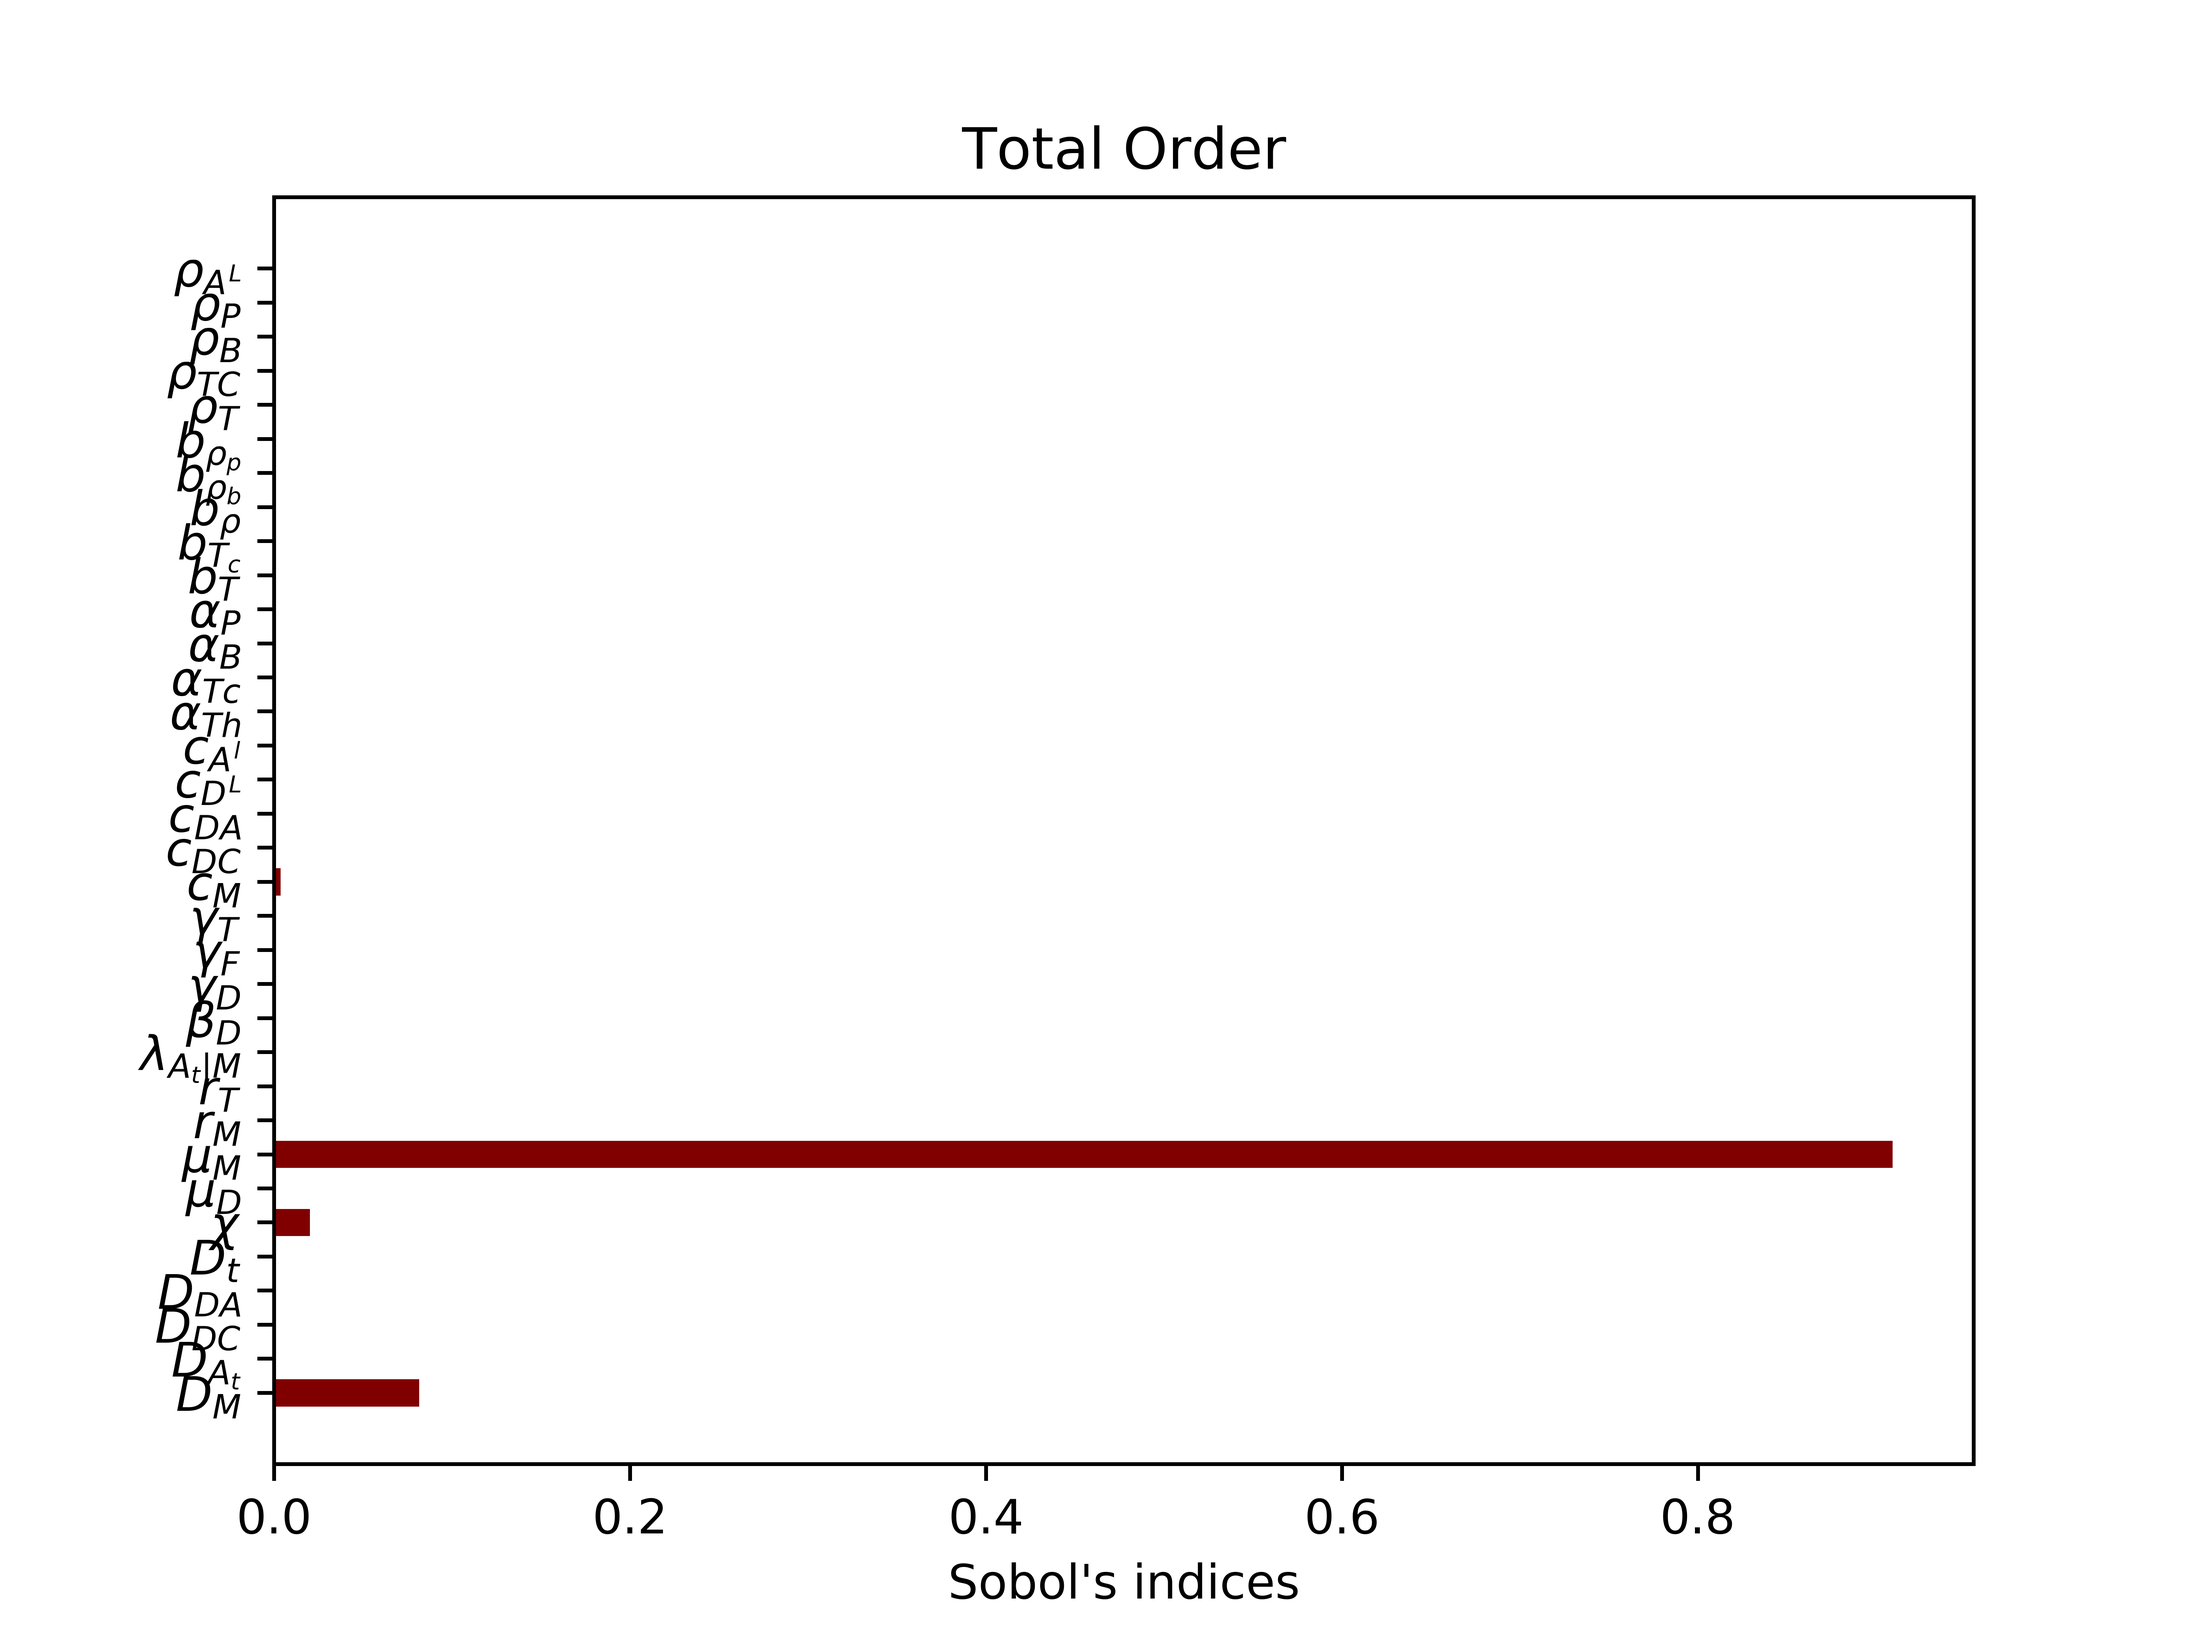
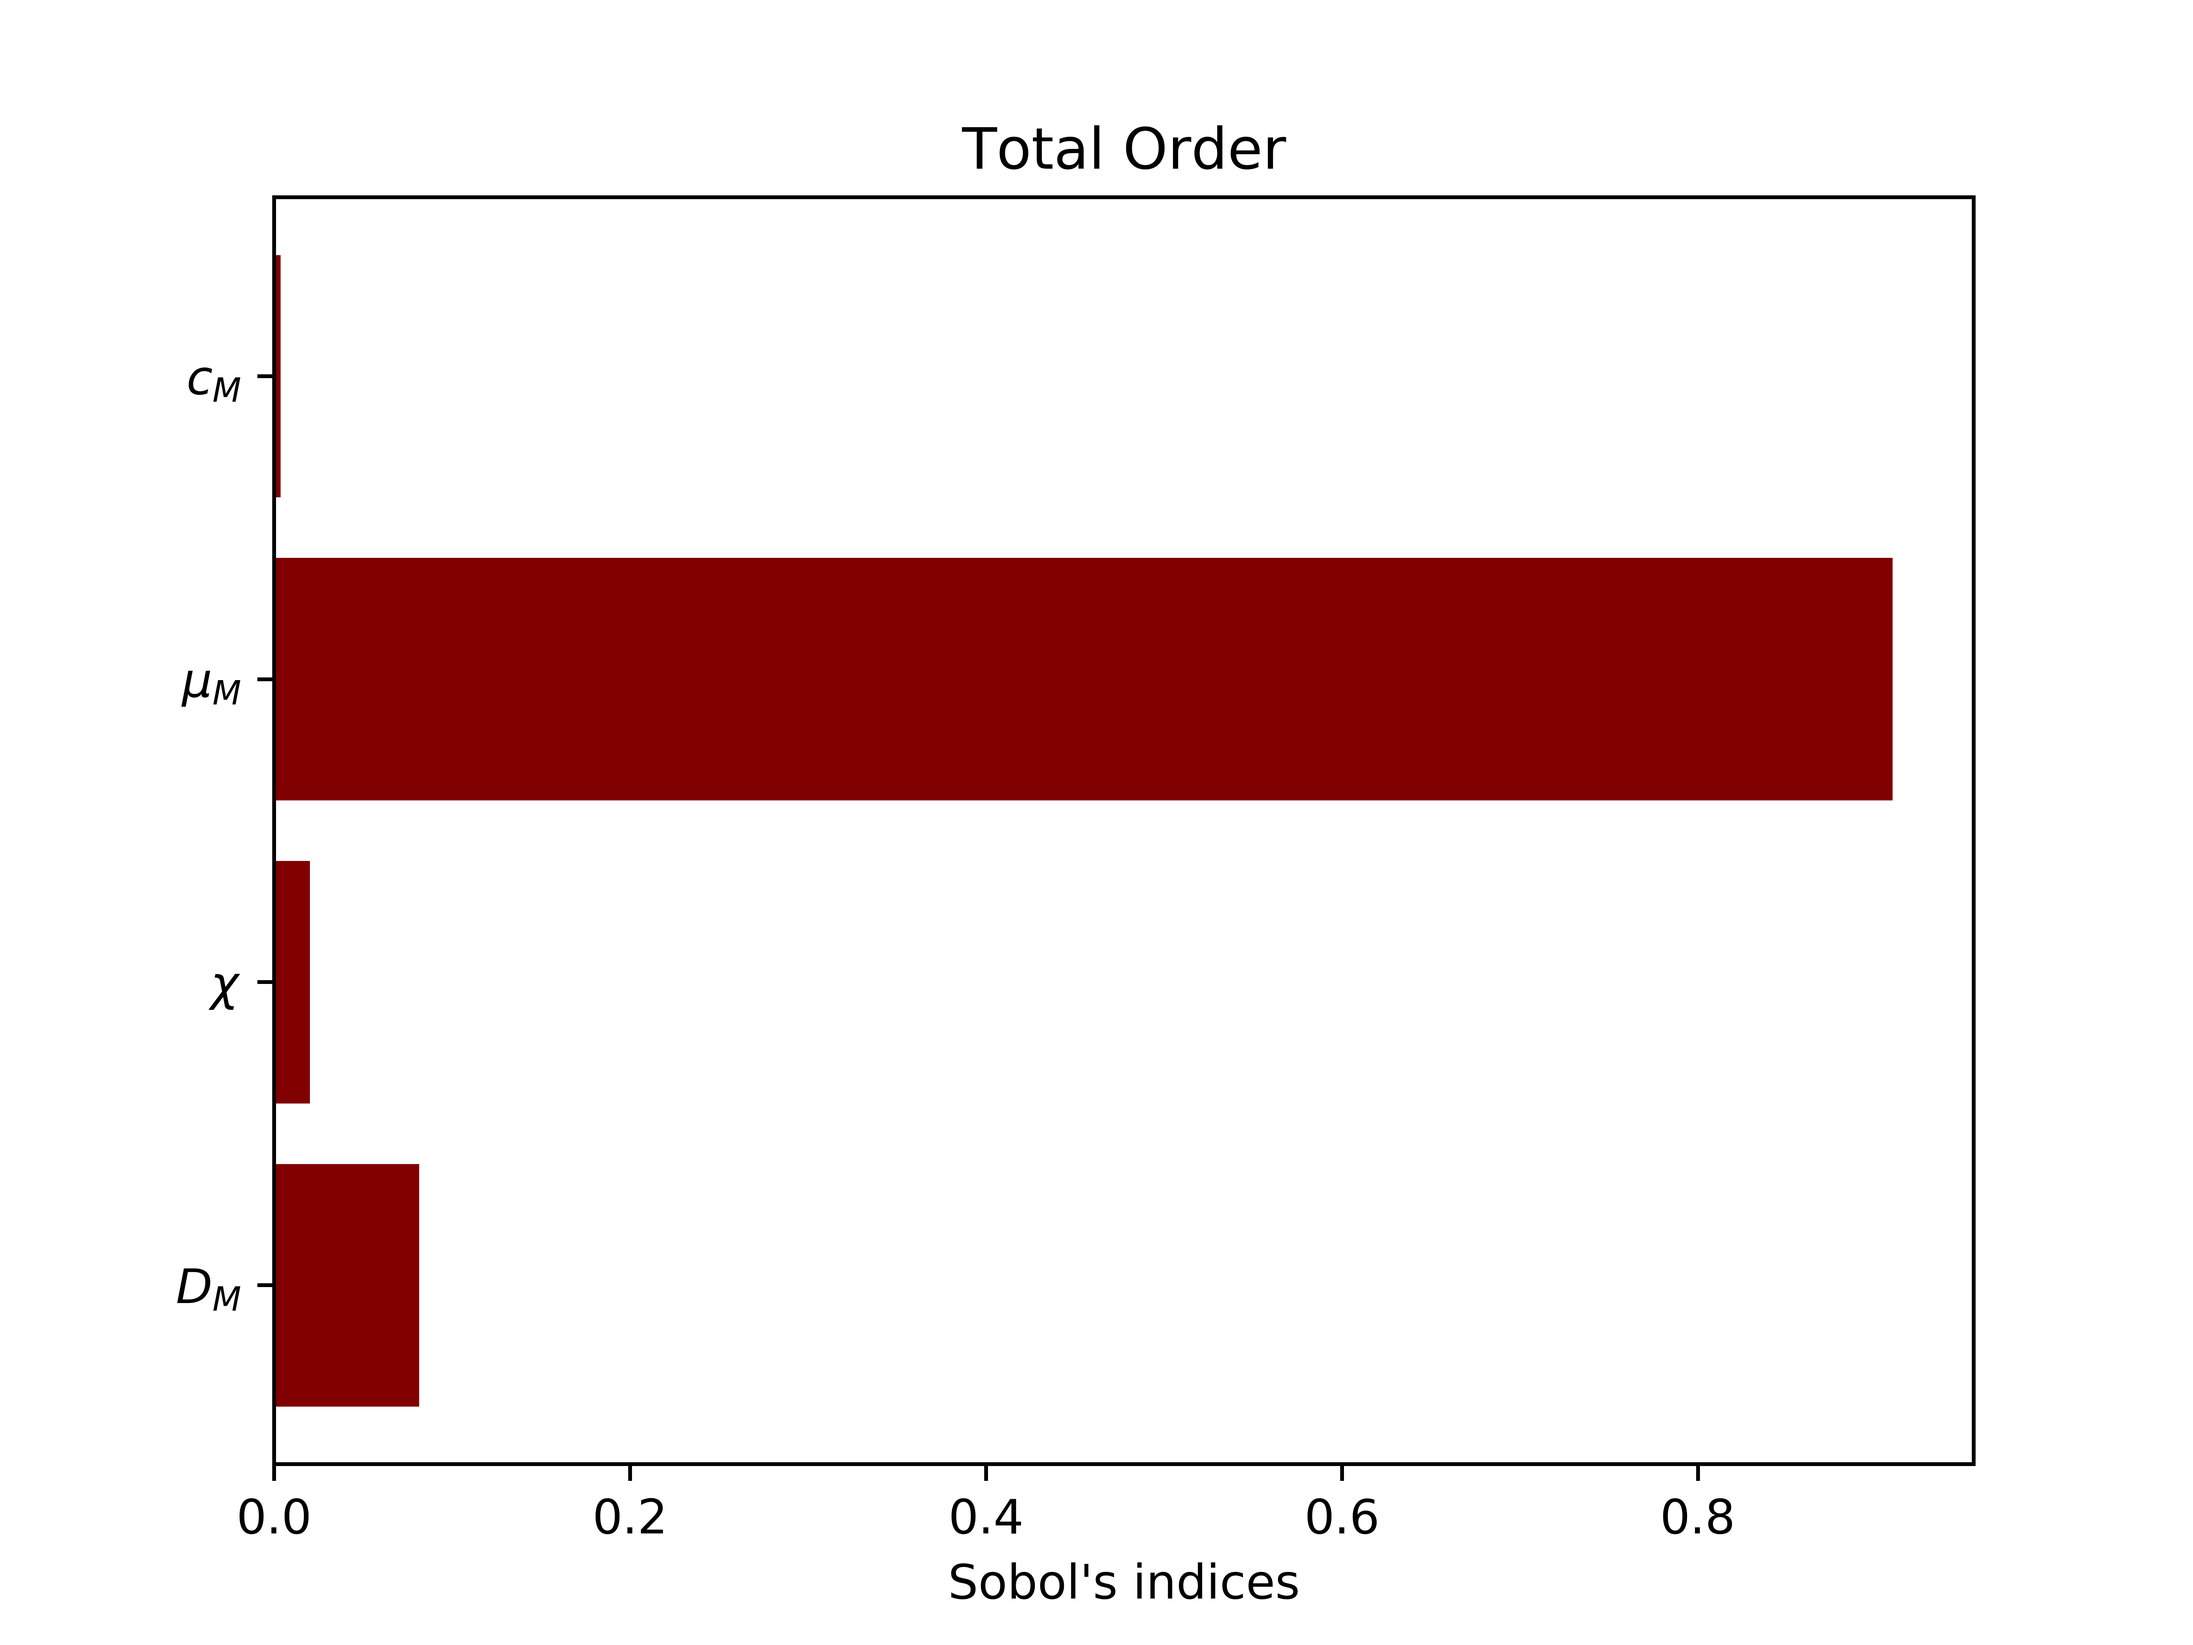
saving only microglia's parameters in firstorder

Changed region(s): [[0.0625, 0.1562, 0.875, 0.875]]

diff --git a/sensitivity_analysis/sa.py b/sensitivity_analysis/sa.py
@@ -9,12 +9,12 @@ import pandas as pd
 import seaborn as sns
 
 label = ["$D_{M}$", "$D_{A_t}$", "$D_{DC}$", "$D_{DA}$", "$D_{t}$", "$\chi$", "$\mu_{D}$", "$\mu_M$", "$r_M$", "$r_T$", "$\lambda_{A_t|M}$", "$\\beta_D$", "$\gamma_D$", "$\gamma_F$", "$\gamma_T$", "$c_M$", "$c_{DC}$", "$c_{DA}$", "$c_{D^L}$", "$c_{A^l}$", "$\\alpha_{Th}$", "$\\alpha_{Tc}$", "$\\alpha_B$", "$\\alpha_P$", "$b_{T}$", "$b_{T_c}$", "$b_{\\rho}$", "$b_{\\rho_b}$", "$b_{\\rho_p}$", "$\\rho_T$", "$\\rho_{TC}$", "$\\rho_B$", "$\\rho_P$", "$\\rho_{A^L}$"]
-
+labelMostRelevants = ["$D_{M}$", "$\chi$", "$\mu_M$", "$c_M$"]
 def printResult(indexes, title, fileName):
-    
+    indexes = [indexes[0], indexes[5], indexes[7], indexes[15]]
     # plt.bar(labels, indexes, color ='maroon')
     plt.title(title)
-    plt.barh(label, indexes, color ='maroon')
+    plt.barh(labelMostRelevants, indexes, color ='maroon')
     plt.xlabel("Sobol's indices")
     # plt.show()
     plt.savefig("./sensitivity_analysis/"+ fileName +".png", dpi = 900)
@@ -313,11 +313,6 @@ def RunSA():
 
     printResult(sensitivity['S1'], 'First Order', 'firstOrder')
     printResult(sensitivity['ST'], 'Total Order', 'totalOrder')
-    
-
-    for i in range(len(sensitivity["S1"])):
-        if sensitivity["S1"][i] < 0:
-            sensitivity["S1"][i] = 0
 
     # for line in sensitivity['S2']:
     #     print(line)
